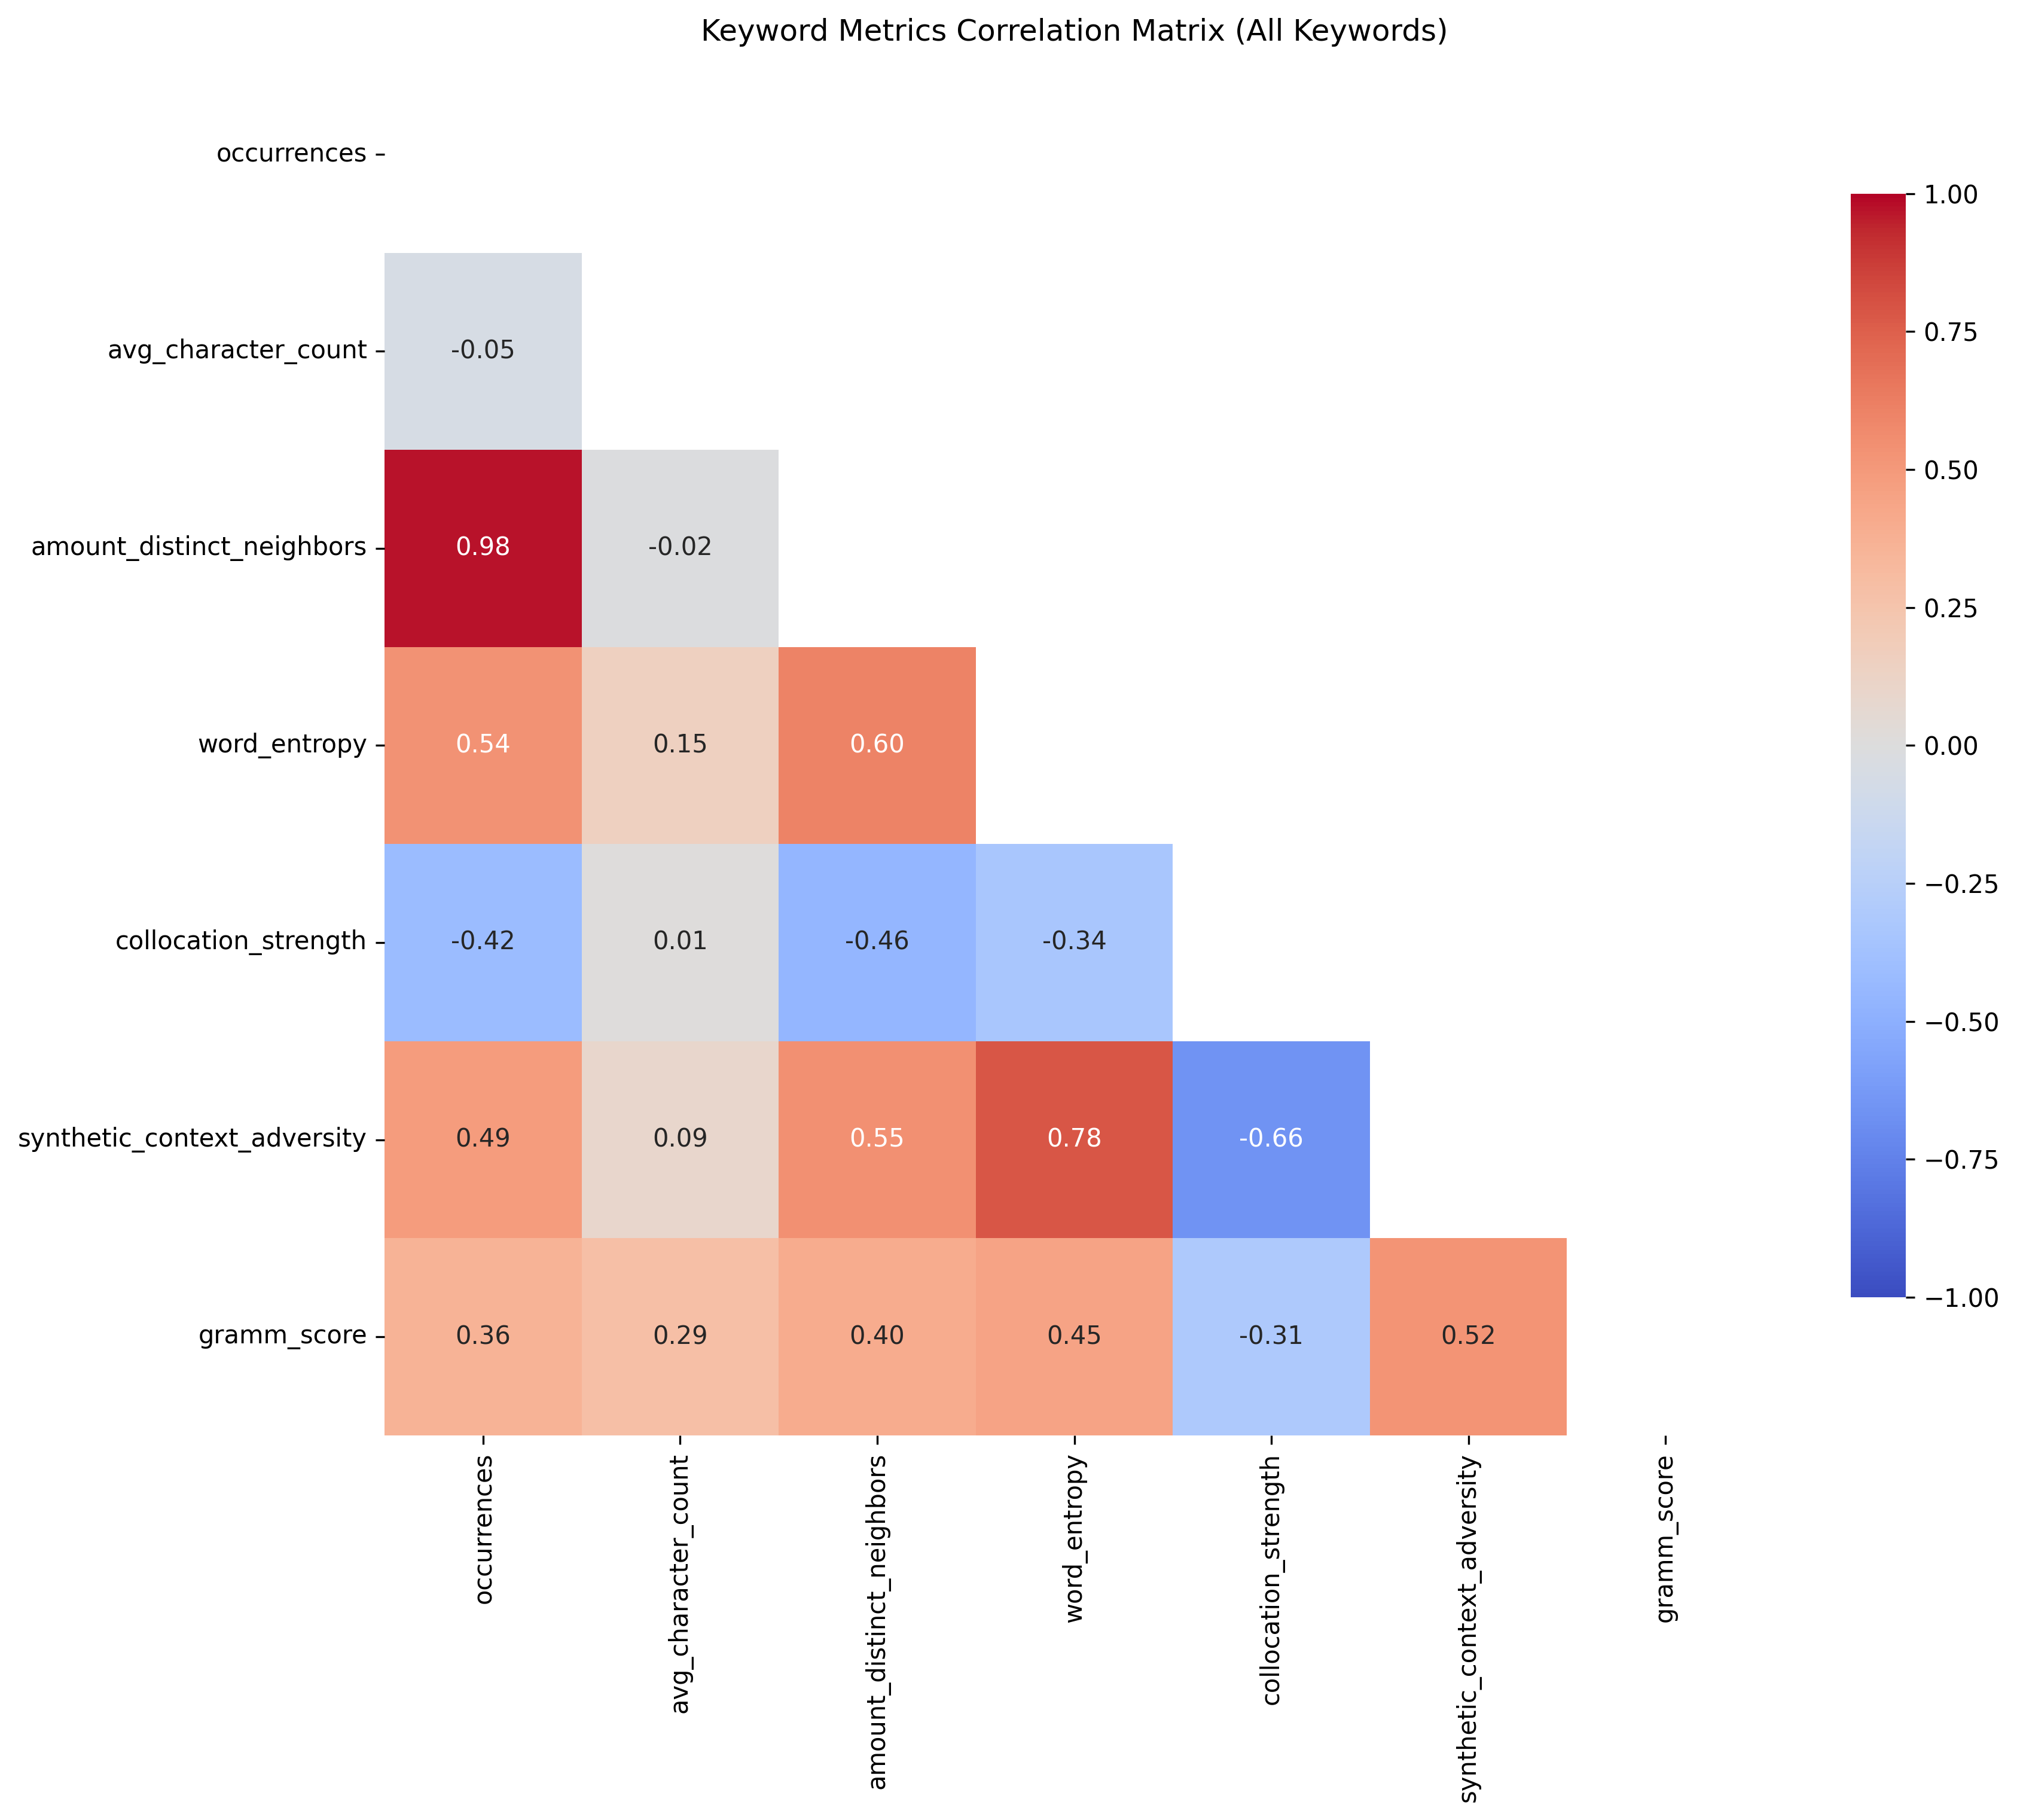
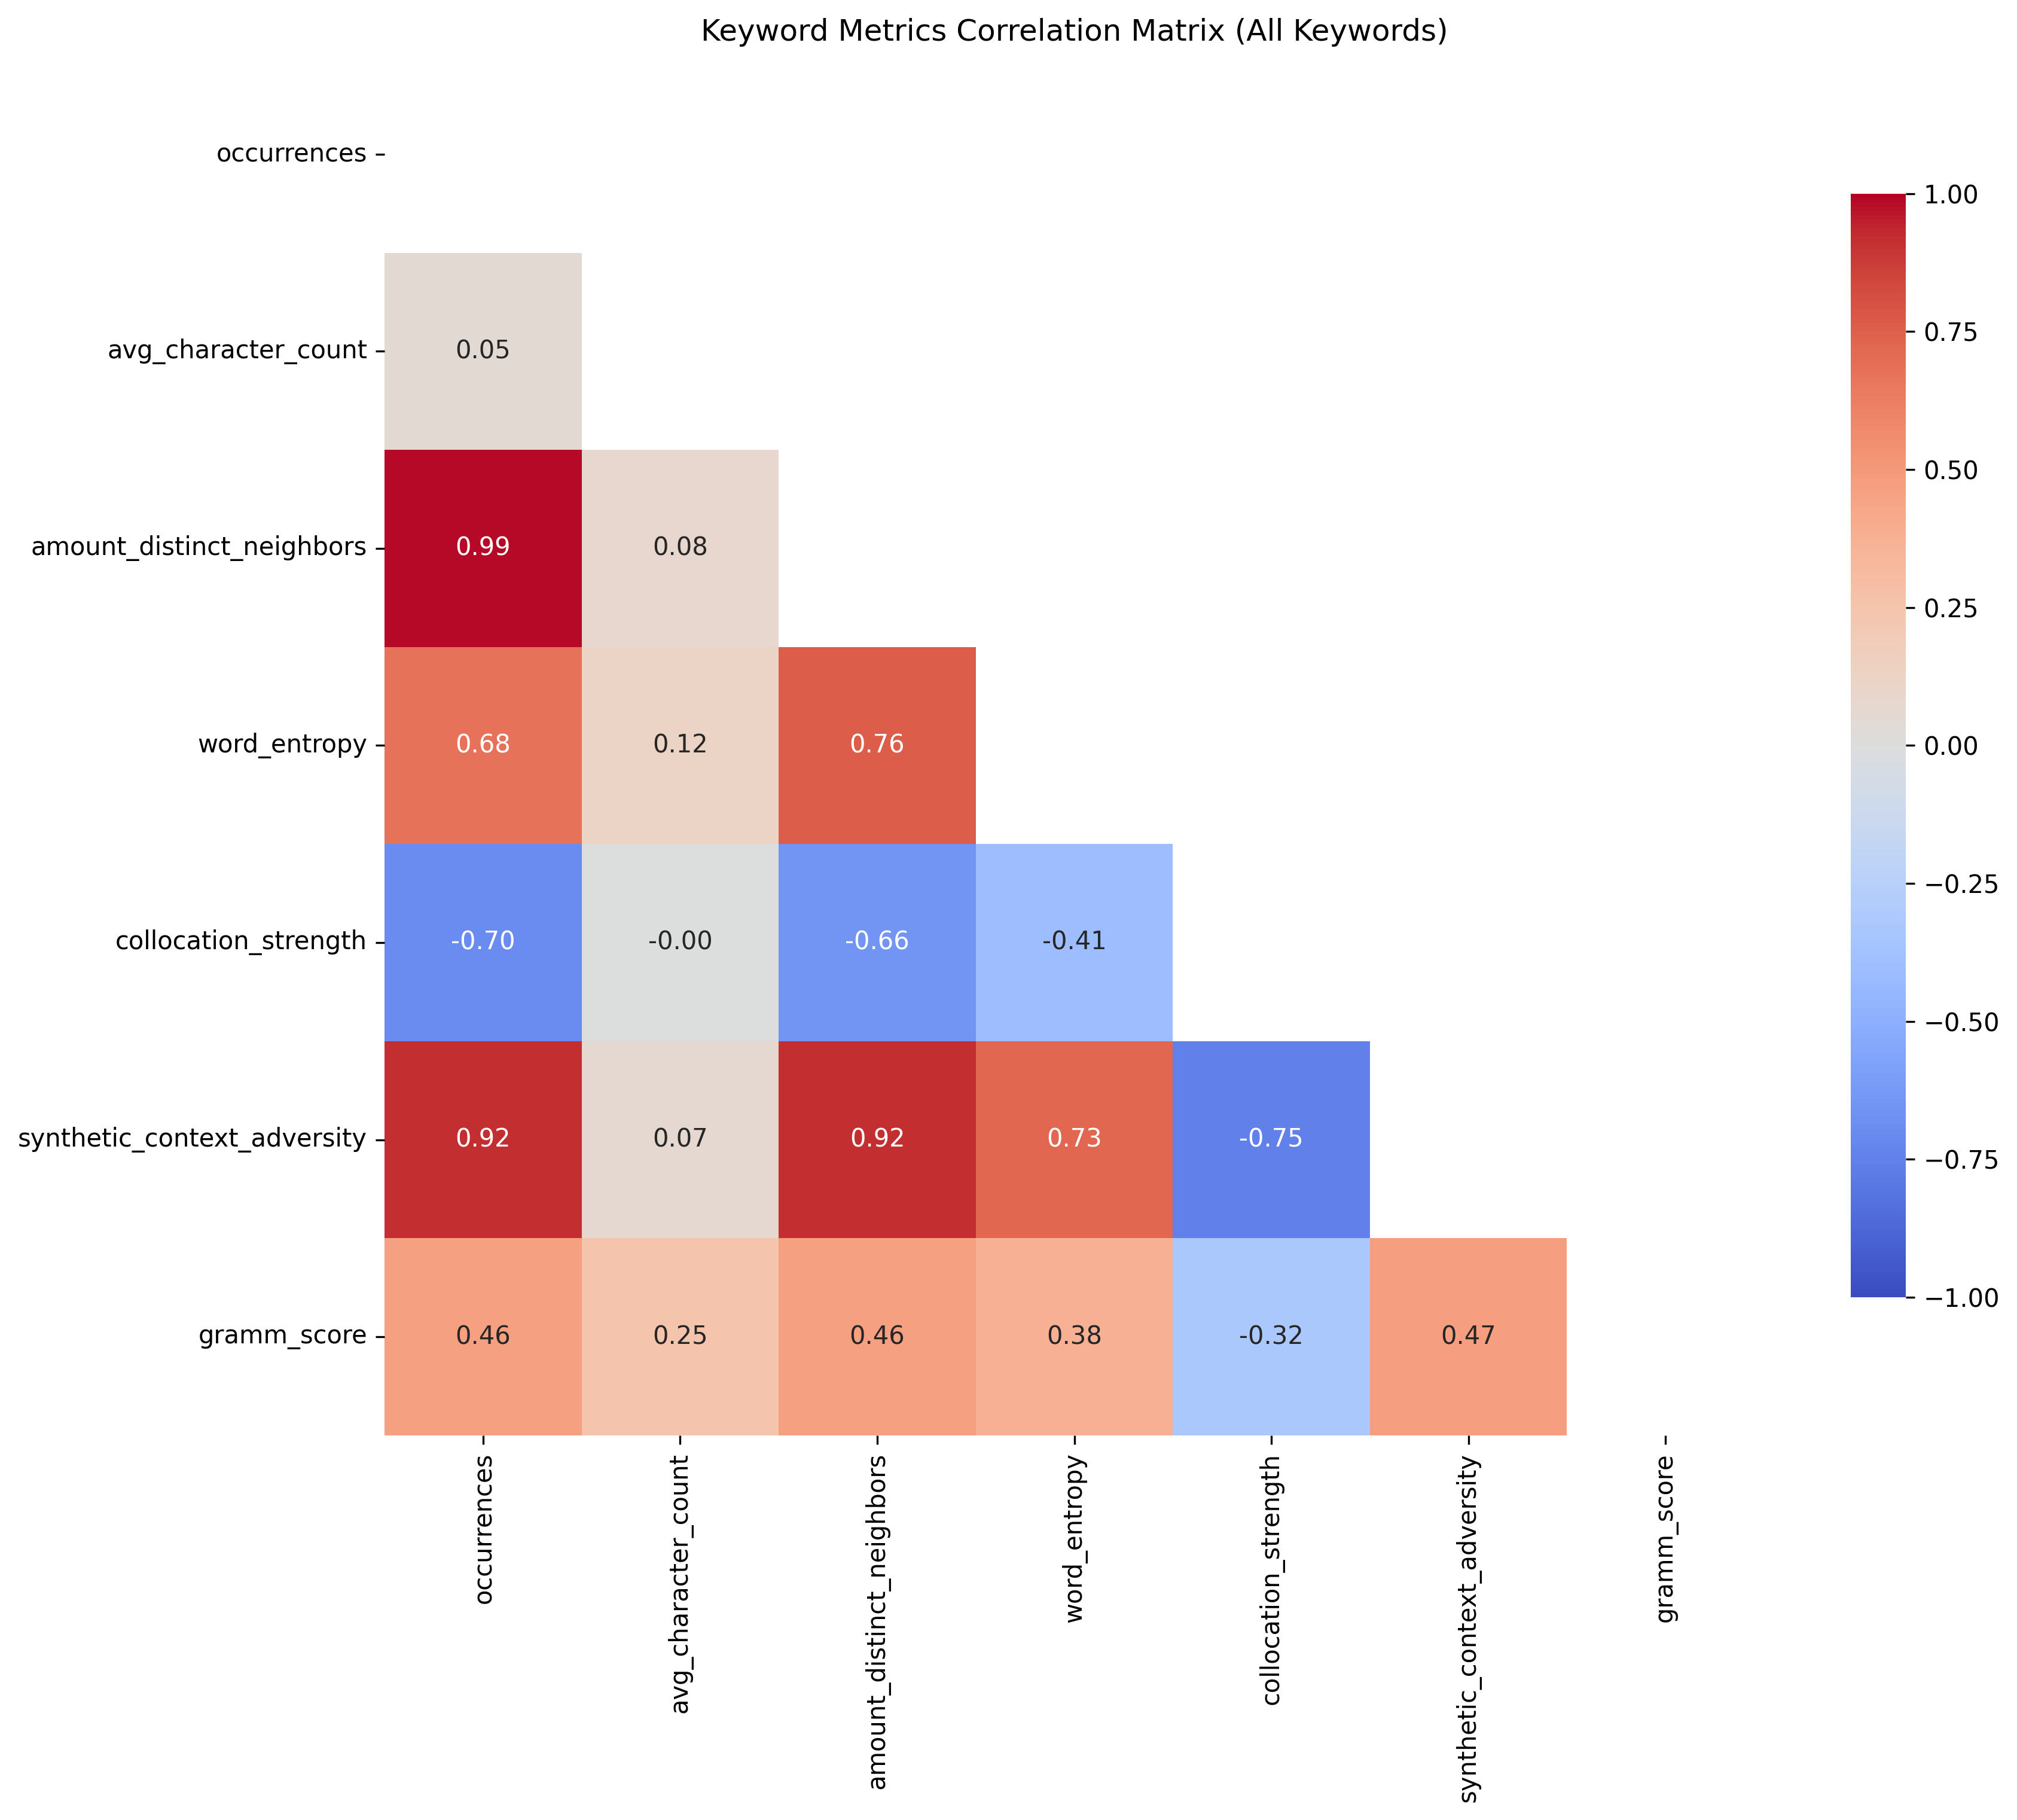
Merge pull request #22 from CastIehard/fix-different-correlations
Update evaluation metrics and correlation plot method

Pull request: Update evaluation metrics and correlation plot method
Now the correlation heatmap and the table have the same values:

<img width="1198" height="325" alt="image" src="https://github.com/user-attachments/assets/6f463055-1419-470e-a996-6c88ef044d8f" />
<img width="855" height="777" alt="image" src="https://github.com/user-attachments/assets/23167570-e6d3-44ef-964b-14fc4e5295a8" />


- Changed correlation calculation method to Spearman in plot_correlation_heatmap function.
- Modified evaluation DataFrame to use the entire dataset instead of dropping duplicates.
- Updated the evaluation summary table with new metrics.
- Replaced the correlation plot with an updated version.

diff --git a/Processing/3_evaluation.py b/Processing/3_evaluation.py
@@ -48,7 +48,7 @@ def plot_correlation_heatmap(df: pd.DataFrame, output_path: str):
         print("Not enough numeric columns for correlation plot.")
         return
     
-    corr = df[numeric_cols].corr()
+    corr = df[numeric_cols].corr(method='spearman')
     mask = np.triu(np.ones_like(corr, dtype=bool))
     
     plt.figure(figsize=(12, 10))
@@ -93,8 +93,7 @@ def generate_evaluation_table(df: pd.DataFrame, metrics_to_evaluate: list, outpu
     """
     print("\n--- 3. Metric Performance Evaluation on Dev Set ---")
     
-    # Use one entry per keyword for metric evaluation
-    eval_df = df.drop_duplicates(subset=['keyword']).copy()
+    eval_df = df.copy()
     eval_df.dropna(subset=['gramm_score'], inplace=True)
     print(f"Evaluating on {len(eval_df)} unique keywords from the dev set.")
     
@@ -166,9 +165,8 @@ def main():
     # 2. Analyze the properties of the data splits
     plot_distribution(DEV_OUTPUT, TEST_OUTPUT, DISTRIBUTION_PLOT_PATH)
 
-    # 3. Generate the final evaluation summary table on the DEV set
-    dev_df = pd.read_json(DEV_OUTPUT, lines=True)
-    generate_evaluation_table(dev_df, METRICS_TO_EVALUATE, EVALUATION_TABLE_CSV)
+    # 3. Generate the final evaluation summary table
+    generate_evaluation_table(df_metrics, METRICS_TO_EVALUATE, EVALUATION_TABLE_CSV)
 
 if __name__ == "__main__":
     main()